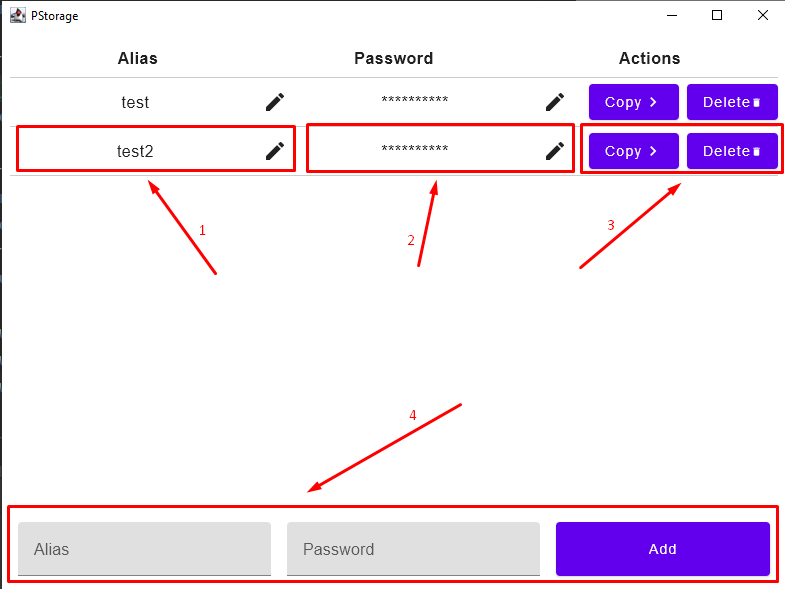
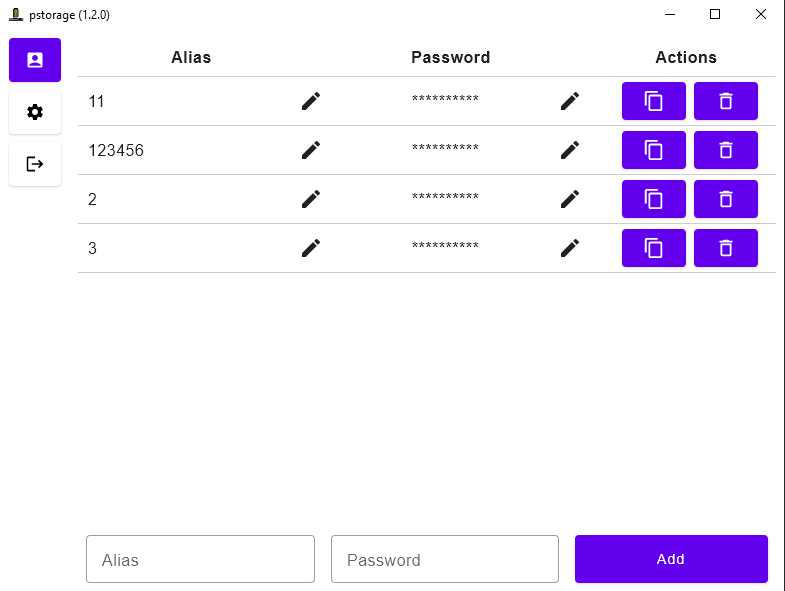
Version increased to 1.2.0, README.md and screenshots in 'docs/' updated

diff --git a/README.md b/README.md
@@ -12,9 +12,12 @@
 ## Table of contents
 
 - [How to use](#how-to-use)
-    - [Auth window](#auth-window)
-    - [Main window](#main-window)
+    - [Auth](#auth)
+    - [Registration](#registration)
+    - [Main view](#main-view)
+    - [Settings](#settings)
     - [System tray](#system-tray)
+    - [More](#more)
 - [How to install](#how-to-install)
 - [How to build](#how-to-build)
 - [How to run for local development](#how-to-run-for-local-development)
@@ -22,24 +25,29 @@
 
 ## How to use
 
-### Auth window
+### Auth
 
-Once app is open you will see auth window:
+Once app is open you will see auth form:
 ![Auth view](docs/auth_view.png)
 
-If you don't have an account you can enter "Login" and "Password" and press "Sign up" button. You
-will be followed inside application.
+If you don't have an account you can follow "Create a new account" button.
+
+In case of wrong credentials you will see an error.
+
+### Registration
+
+![Registration view](docs/registration_view.png)
+
+You can create any number of accounts with unique 'Username'.
 
 **Be careful:** you can't restore your password if you forget it. Be sure that you remember it or
 write down in safe place.
 
-In case of wrong credentials you will see an error.
+### Main view
 
-### Main window
+After successful log in you will see main view.
 
-After successful log in you will see main window.
-
-If it's your first log in - table will be empty.
+If it's your first log in - passwords table will be empty.
 
 Else you will see information about your passwords as on screenshot below.
 ![Main view](docs/main_view_with_passwords.png)
@@ -54,6 +62,16 @@ On screenshot:
     - "Copy" button - on press it copies password's value to Clipboard.
     - "Delete" button - delete password that you don't need anymore.
 4. Form to add a new password.
+5. Sidebar on the left side with navigation buttons and "Log out" button.
+
+### Settings
+
+![Settings view](docs/settings_view.png)
+
+Here you can configure application.
+
+- Notify about hiding to tray: if enabled - application will use Notification Center on window close
+  ![Notification](docs/notification.png)
 
 ### System tray
 
@@ -63,13 +81,19 @@ After successful log in you will see there your passwords' aliases.
 
 ![System tray menu](docs/tray_menu.png)
 
-On screenshot:
+On screenshot above:
 
 - Application name with version - use this to reopen the main window.
 - Passwords menu - all your passwords' aliases. Click on specific element to copy it's password's
   value to clipboard. **Note:** It's blank if you don't have any password or in case if you are not
   authorized.
-- Exit button.
+- Settings of current user.
+- Quick 'log out' button.
+- Exit button to shutdown application.
+
+### More
+
+- Design: [Figma](https://www.figma.com/file/k5UoSrgBohsrTmETQgDw4f/pstorage-multiplatform-(public)?type=design&node-id=0%3A1&mode=design&t=QEn5ReUuz1ehxoMI-1)
 
 ## How to install on Windows
 
